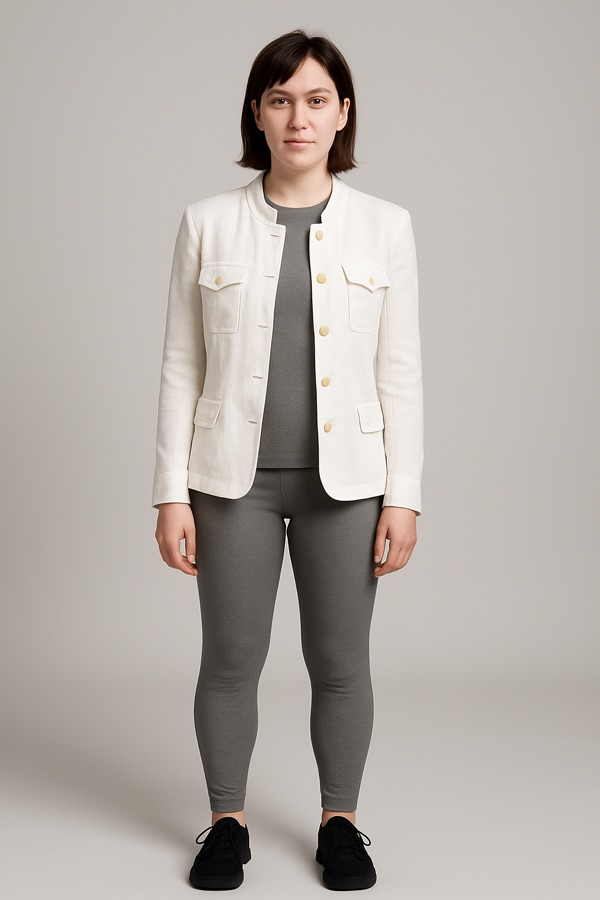
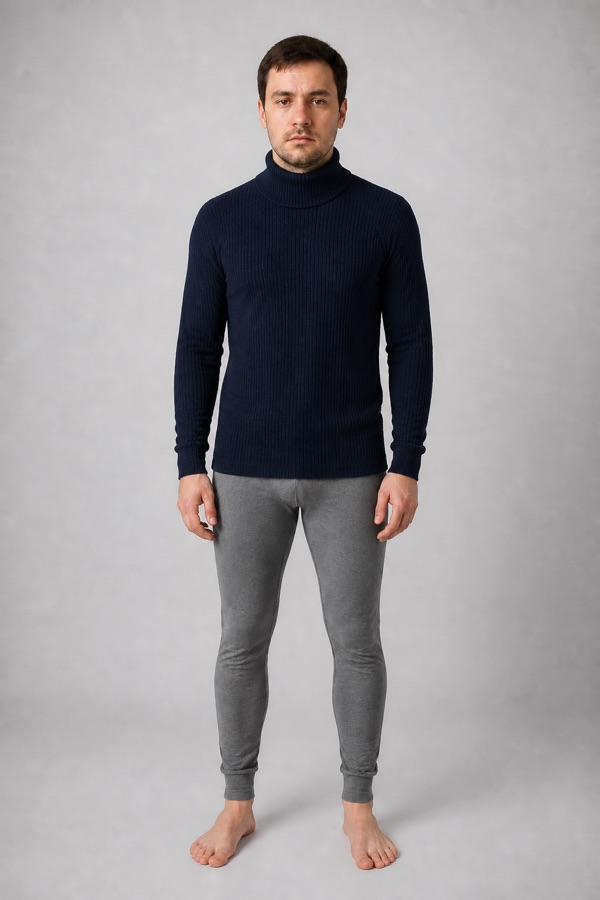
Use a coherent model and garment in the landing page screenshots
The page paired a photograph of a man, captioned as the model, with a try-on
of a woman in a women's blazer, captioned as the same model wearing a listing.
They were not the same person or the same gender.

The two images came from different generations of the code. The try-on was
produced while the prompt still asserted a gender from the profile and
overruled the reference photo; the portrait beside it was made after that was
fixed. Putting them together was mine to catch and I did not.

Regenerated the try-on from the corrected portrait with a menswear listing, so
the pair now shows what the caption claims: one model, built once, wearing one
garment — with everything else left plain grey, which is visible in the image
rather than only asserted in the text.

diff --git a/docs/index.html b/docs/index.html
@@ -121,9 +121,9 @@
       </figure>
 
       <figure class="shot">
-        <img src="img/tryon.jpg" alt="A virtual try-on render of a garment on a generated model">
+        <img src="img/tryon.jpg" alt="A virtual try-on render of a navy ribbed turtleneck on a generated model">
         <figcaption><strong>4. Try it on first.</strong> The garment is rendered on a model
-        built from the user's own photo, so fit and colour can be judged before buying.</figcaption>
+        built from the user's own photo, so cut and colour can be judged before buying.</figcaption>
       </figure>
     </div>
   </section>
@@ -171,7 +171,8 @@
     <p>
       The app builds one full-body model from the user's photo and keeps it, then dresses
       that same model for every garment. Generating the person once is what makes two
-      try-ons comparable — and it means the wait happens once rather than on every item.
+      try-ons comparable — the pair below is the same model before and after — and it means
+      the wait happens once rather than on every item.
     </p>
     <div class="grid">
       <figure class="shot">
@@ -179,10 +180,10 @@
         <figcaption>The model, built once from a photo and reused.</figcaption>
       </figure>
       <figure class="shot">
-        <img src="img/tryon.jpg" alt="The same model wearing a specific listed garment">
-        <figcaption>The same model wearing a specific listing. Only the purchased garment is
-        reproduced; everything else is plain grey, so nothing implies you get more than you
-        are buying.</figcaption>
+        <img src="img/tryon.jpg" alt="The same model wearing a navy ribbed turtleneck from a listing">
+        <figcaption>The same model, wearing one listed garment. Only that garment is
+        reproduced — everything else stays plain grey, so nothing implies you get the whole
+        look when you are buying one piece.</figcaption>
       </figure>
     </div>
   </section>
